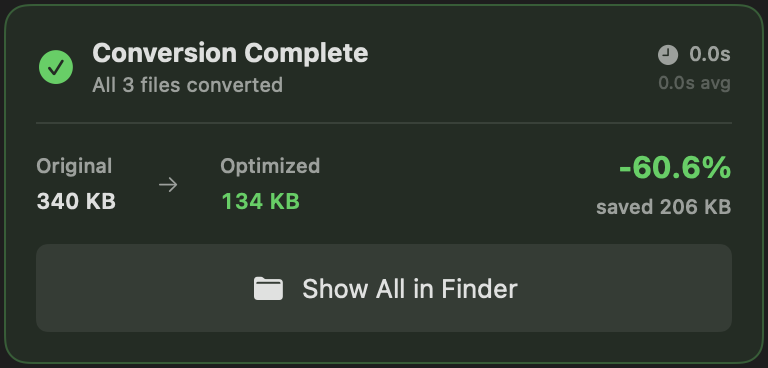
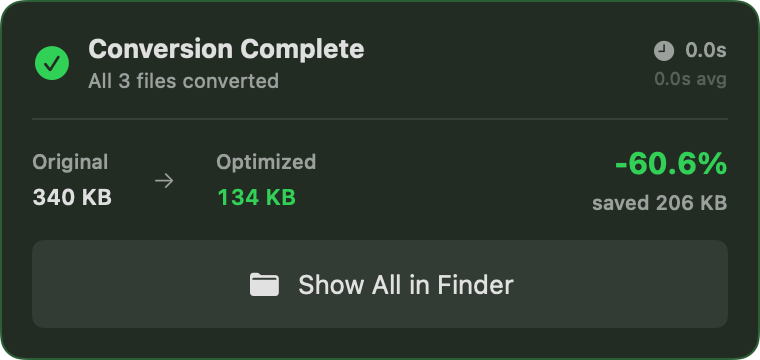
Remove the native backdrop outside the ImgPress result outline

diff --git a/components/Work/ImgPressStudy.tsx b/components/Work/ImgPressStudy.tsx
@@ -95,7 +95,7 @@ export default function ImgPressStudy({ project }: { project: ProjectType }) {
         <Image
           src={result}
           alt="ImgPress reports that all three files converted, saving 206 kB, or 60.6%."
-          sizes="(min-width: 800px) 360px, (min-width: 620px) 43vw, 88vw"
+          unoptimized
         />
       </Result>
       <footer>
